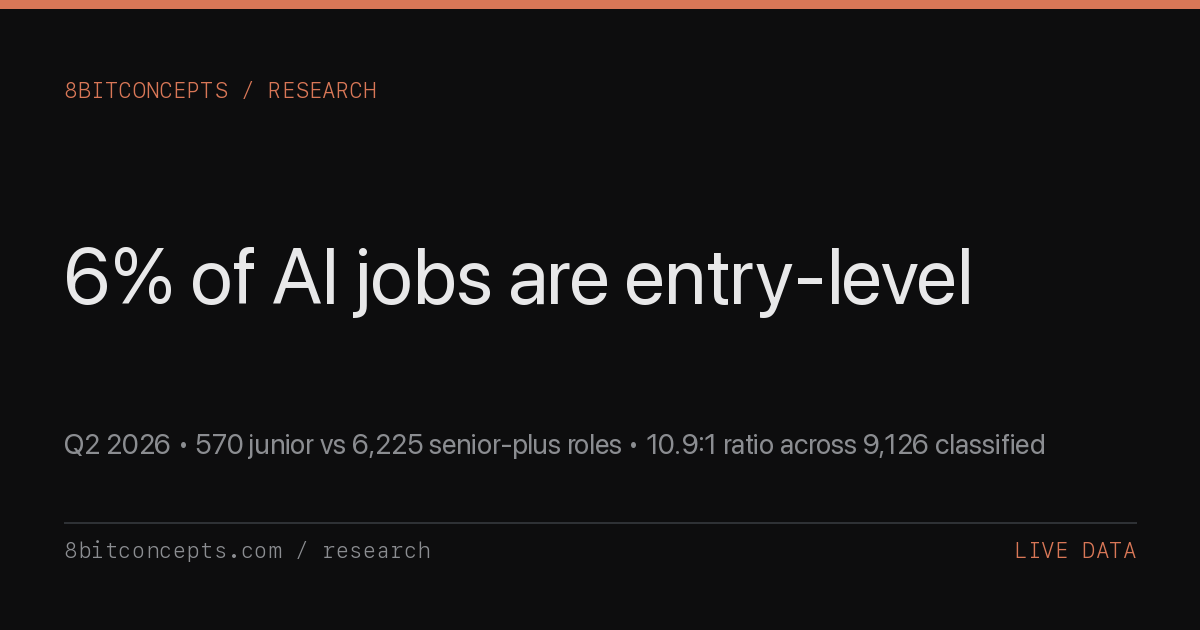
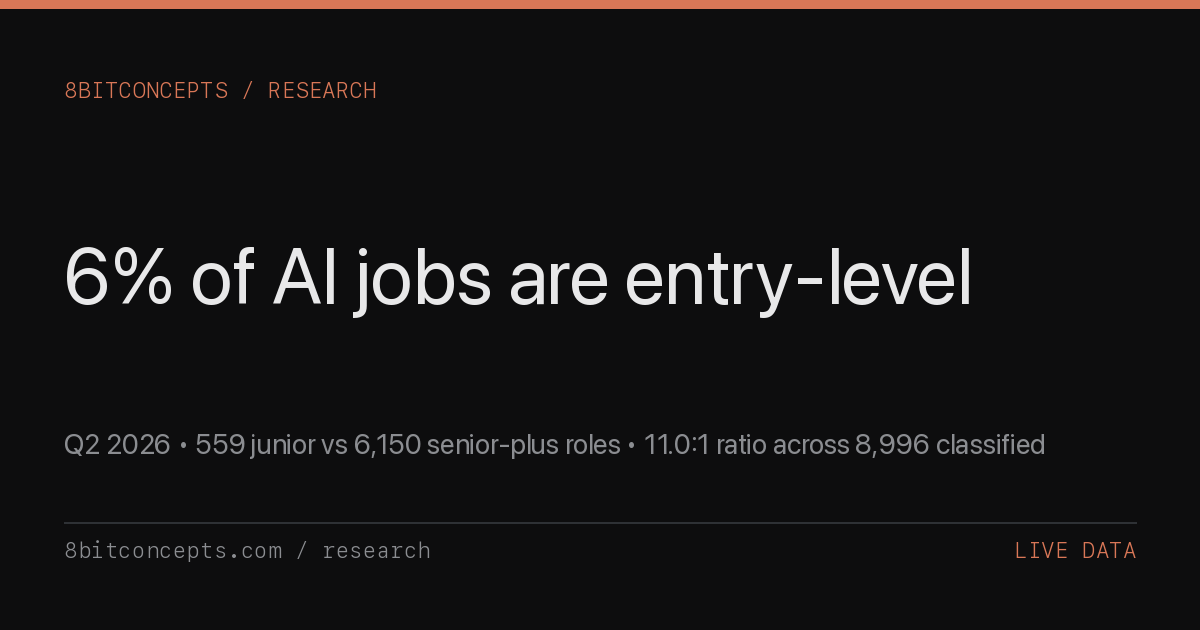
entry-level-gap: auto-regenerate 2026-08-10

Changed region(s): [[0.1542, 0.6937, 0.8633, 0.7238]]

diff --git a/research/q2-2026-entry-level-ai-gap.html b/research/q2-2026-entry-level-ai-gap.html
@@ -5,11 +5,11 @@
   <meta name="viewport" content="width=device-width, initial-scale=1.0" />
   <meta name="referrer" content="strict-origin-when-cross-origin" />
   <meta name="color-scheme" content="dark light" />
-  <meta name="last-updated" content="2026-08-03" />
+  <meta name="last-updated" content="2026-08-10" />
   <title>Q2 2026 The Junior AI Hiring Gap -- 8bitconcepts</title>
-  <meta name="description" content="Live analysis: only 6.2% of AI/ML engineering roles are open to juniors (570 of 9,126). 10.9:1 senior-plus-to-junior ratio &amp;mdash; the tightest in tech. Why the squeeze exists, which companies still hire juniors, and the actionable path in. Auto-regenerated weekly." />
+  <meta name="description" content="Live analysis: only 6.2% of AI/ML engineering roles are open to juniors (559 of 8,996). 11.0:1 senior-plus-to-junior ratio &amp;mdash; the tightest in tech. Why the squeeze exists, which companies still hire juniors, and the actionable path in. Auto-regenerated weekly." />
   <meta property="og:title" content="Q2 2026 The Junior AI Hiring Gap -- 8bitconcepts" />
-  <meta property="og:description" content="6.2% of AI/ML roles are open to juniors. 10.9:1 senior-plus ratio. 9,126 classified roles across 500 companies. Live data, 2026-08-03." />
+  <meta property="og:description" content="6.2% of AI/ML roles are open to juniors. 11.0:1 senior-plus ratio. 8,996 classified roles across 495 companies. Live data, 2026-08-10." />
   <meta property="og:type" content="article" />
   <meta property="og:url" content="https://8bitconcepts.com/research/q2-2026-entry-level-ai-gap.html" />
   <meta property="og:image" content="https://8bitconcepts.com/research/og/q2-2026-entry-level-ai-gap.png" />
@@ -17,7 +17,7 @@
   <meta property="og:image:height" content="630" />
   <meta name="twitter:card" content="summary_large_image" />
   <meta name="twitter:title" content="Q2 2026 The Junior AI Hiring Gap" />
-  <meta name="twitter:description" content="Only 6.2% of AI/ML jobs are entry-level. 10.9:1 senior-plus ratio. 2026-08-03." />
+  <meta name="twitter:description" content="Only 6.2% of AI/ML jobs are entry-level. 11.0:1 senior-plus ratio. 2026-08-10." />
   <meta name="twitter:image" content="https://8bitconcepts.com/research/og/q2-2026-entry-level-ai-gap.png" />
   <link rel="canonical" href="https://8bitconcepts.com/research/q2-2026-entry-level-ai-gap.html" />
   <link rel="preconnect" href="https://fonts.googleapis.com" />
@@ -478,10 +478,10 @@
     "@context": "https://schema.org",
     "@type": "Article",
     "headline": "Q2 2026 The Junior AI Hiring Gap",
-    "description": "Live analysis of the junior AI hiring gap from aidevboard.com: experience-level mix, junior-friendly companies, salary gap, why the squeeze exists, and the actionable path in for career-switchers. Across 9,126 classified postings.",
+    "description": "Live analysis of the junior AI hiring gap from aidevboard.com: experience-level mix, junior-friendly companies, salary gap, why the squeeze exists, and the actionable path in for career-switchers. Across 8,996 classified postings.",
     "url": "https://8bitconcepts.com/research/q2-2026-entry-level-ai-gap.html",
     "datePublished": "2026-04-17",
-    "dateModified": "2026-08-03",
+    "dateModified": "2026-08-10",
     "author": {"@type": "Organization", "name": "8bitconcepts", "url": "https://8bitconcepts.com"},
     "publisher": {"@type": "Organization", "name": "8bitconcepts", "url": "https://8bitconcepts.com"},
     "image": "https://8bitconcepts.com/research/og/q2-2026-entry-level-ai-gap.png",
@@ -521,10 +521,10 @@
 
     <h1>Q2 2026 The Junior AI Hiring Gap</h1>
 
-    <p class="subtitle">Live experience-level data across 9,126 classified AI/ML engineering roles. Only 6.2% are open to juniors. For every entry-level opening there are 10.9 senior-plus roles. Data pulled from <a href="https://aidevboard.com/api/v1/stats">aidevboard.com/api/v1/stats</a>.</p>
+    <p class="subtitle">Live experience-level data across 8,996 classified AI/ML engineering roles. Only 6.2% are open to juniors. For every entry-level opening there are 11.0 senior-plus roles. Data pulled from <a href="https://aidevboard.com/api/v1/stats">aidevboard.com/api/v1/stats</a>.</p>
 
     <div class="meta">
-      <span class="meta-date">2026-08-03</span>
+      <span class="meta-date">2026-08-10</span>
       <span class="meta-tag">Live Data</span>
       <span class="meta-read">~800 words</span>
     </div>
@@ -533,15 +533,15 @@
 
       <h2>Executive summary</h2>
 
-      <p>Only <strong>6.2%</strong> of 9,126 classified AI/ML engineering roles are open to juniors (570 of 9,126). For every entry-level opening there are <strong>10.9 senior-plus roles</strong> (6,225 senior + lead + principal). This is the tightest junior-to-senior ratio in any tech specialty tracked by the AI Dev Jobs index. Breaking in is statistically rarer than staying in.</p>
+      <p>Only <strong>6.2%</strong> of 8,996 classified AI/ML engineering roles are open to juniors (559 of 8,996). For every entry-level opening there are <strong>11.0 senior-plus roles</strong> (6,150 senior + lead + principal). This is the tightest junior-to-senior ratio in any tech specialty tracked by the AI Dev Jobs index. Breaking in is statistically rarer than staying in.</p>
 
       <div class="stat-row">
         <div class="stat-box">
           <div class="stat-num">6.2%</div>
-          <div class="stat-label">of AI/ML roles open to juniors (570 of 9,126)</div>
+          <div class="stat-label">of AI/ML roles open to juniors (559 of 8,996)</div>
         </div>
         <div class="stat-box">
-          <div class="stat-num">10.9&times;</div>
+          <div class="stat-num">11.0&times;</div>
           <div class="stat-label">senior-plus roles for every 1 junior role in the index</div>
         </div>
         <div class="stat-box">
@@ -552,7 +552,7 @@
 
       <h2>The squeeze: experience-level mix</h2>
 
-      <p>Across the 9,126 AI/ML engineering postings with an experience-level classification, the distribution is top-heavy. Junior is the smallest band; senior, lead, and principal together account for 68%.</p>
+      <p>Across the 8,996 AI/ML engineering postings with an experience-level classification, the distribution is top-heavy. Junior is the smallest band; senior, lead, and principal together account for 68%.</p>
 
       <table class="data-table">
         <thead>
@@ -563,39 +563,39 @@
           </tr>
         </thead>
         <tbody>
-          <tr><td>Junior / Entry-level</td><td class="num">570</td><td class="num">6.2%</td></tr>
-          <tr><td>Mid</td><td class="num">2,331</td><td class="num">25.5%</td></tr>
-          <tr><td>Senior</td><td class="num">3,065</td><td class="num">33.6%</td></tr>
-          <tr><td>Lead / Staff</td><td class="num">2,529</td><td class="num">27.7%</td></tr>
-          <tr><td>Principal</td><td class="num">631</td><td class="num">6.9%</td></tr>
+          <tr><td>Junior / Entry-level</td><td class="num">559</td><td class="num">6.2%</td></tr>
+          <tr><td>Mid</td><td class="num">2,287</td><td class="num">25.4%</td></tr>
+          <tr><td>Senior</td><td class="num">3,027</td><td class="num">33.6%</td></tr>
+          <tr><td>Lead / Staff</td><td class="num">2,498</td><td class="num">27.8%</td></tr>
+          <tr><td>Principal</td><td class="num">625</td><td class="num">6.9%</td></tr>
         </tbody>
       </table>
 
       <div class="bar-chart">
         <div class="bar-row">
           <div class="bar-label">Junior</div>
-          <div class="bar-wrap"><div class="bar" style="width:18.6%;"></div></div>
-          <div class="bar-value">570</div>
+          <div class="bar-wrap"><div class="bar" style="width:18.5%;"></div></div>
+          <div class="bar-value">559</div>
         </div>
         <div class="bar-row">
           <div class="bar-label">Mid</div>
-          <div class="bar-wrap"><div class="bar" style="width:76.1%;"></div></div>
-          <div class="bar-value">2,331</div>
+          <div class="bar-wrap"><div class="bar" style="width:75.6%;"></div></div>
+          <div class="bar-value">2,287</div>
         </div>
         <div class="bar-row">
           <div class="bar-label">Senior</div>
           <div class="bar-wrap"><div class="bar" style="width:100.0%;"></div></div>
-          <div class="bar-value">3,065</div>
+          <div class="bar-value">3,027</div>
         </div>
         <div class="bar-row">
           <div class="bar-label">Lead</div>
           <div class="bar-wrap"><div class="bar" style="width:82.5%;"></div></div>
-          <div class="bar-value">2,529</div>
+          <div class="bar-value">2,498</div>
         </div>
         <div class="bar-row">
           <div class="bar-label">Principal</div>
           <div class="bar-wrap"><div class="bar" style="width:20.6%;"></div></div>
-          <div class="bar-value">631</div>
+          <div class="bar-value">625</div>
         </div>
       </div>
 
@@ -605,15 +605,15 @@
 
       <h2>What &quot;junior AI&quot; actually pays</h2>
 
-      <p>The public stats endpoint does not expose salary by experience band directly &mdash; it publishes a single global average ($232,549) and a global median ($220,000) across the 3,504-posting salary-disclosed subset. But we can triangulate: of the disclosed postings, 364 advertise a midpoint under $150k (a reasonable proxy for the entry-level band), while 593 advertise $300k+. If junior supply is 6% of roles, the under-$150k band is <strong>roughly at odds with</strong> that share &mdash; meaning advertised junior AI pay typically lands in the $100k-$150k range, well above non-AI entry-level engineering but well below the $220,000 index median. <strong>Data gap flag:</strong> the next iteration of this report will break salary by experience band once the <code>/api/v1/stats</code> endpoint exposes it.</p>
+      <p>The public stats endpoint does not expose salary by experience band directly &mdash; it publishes a single global average ($232,683) and a global median ($220,000) across the 3,486-posting salary-disclosed subset. But we can triangulate: of the disclosed postings, 363 advertise a midpoint under $150k (a reasonable proxy for the entry-level band), while 593 advertise $300k+. If junior supply is 6% of roles, the under-$150k band is <strong>roughly at odds with</strong> that share &mdash; meaning advertised junior AI pay typically lands in the $100k-$150k range, well above non-AI entry-level engineering but well below the $220,000 index median. <strong>Data gap flag:</strong> the next iteration of this report will break salary by experience band once the <code>/api/v1/stats</code> endpoint exposes it.</p>
 
       <h2>Why the squeeze exists</h2>
 
-      <p>Three structural reasons explain the junior squeeze. <strong>Judgment under uncertainty.</strong> AI/ML engineering outputs (prompts, evals, RAG retrievers, agent pipelines) don't have deterministic unit tests &mdash; they require a senior's pattern-matching to spot when a system is quietly wrong. Companies willing to pay $232,549 average don't want to train that judgment from scratch. <strong>Compute-cost economics.</strong> A senior engineer ships iterations against GPU-hours that cost $5-$50 per experiment. The efficiency delta between a senior and a junior running GPU jobs compounds faster than it does in CRUD web development, so staffing leans toward senior. <strong>The ML-plus-LLM double requirement.</strong> Companies hiring for &quot;AI&quot; in 2026 typically want traditional ML fluency (PyTorch, distributed training, MLOps &mdash; the 2,104 postings combining those skills) <em>plus</em> recent LLM / agent experience. Juniors rarely have both simultaneously.</p>
+      <p>Three structural reasons explain the junior squeeze. <strong>Judgment under uncertainty.</strong> AI/ML engineering outputs (prompts, evals, RAG retrievers, agent pipelines) don't have deterministic unit tests &mdash; they require a senior's pattern-matching to spot when a system is quietly wrong. Companies willing to pay $232,683 average don't want to train that judgment from scratch. <strong>Compute-cost economics.</strong> A senior engineer ships iterations against GPU-hours that cost $5-$50 per experiment. The efficiency delta between a senior and a junior running GPU jobs compounds faster than it does in CRUD web development, so staffing leans toward senior. <strong>The ML-plus-LLM double requirement.</strong> Companies hiring for &quot;AI&quot; in 2026 typically want traditional ML fluency (PyTorch, distributed training, MLOps &mdash; the 2,042 postings combining those skills) <em>plus</em> recent LLM / agent experience. Juniors rarely have both simultaneously.</p>
 
       <h2>Bootcamps, CS grads, and career-switchers</h2>
 
-      <p><strong>Is the bootcamp path viable?</strong> The data says: narrow pipe, not closed pipe. The junior AI/ML market is roughly 570 roles &mdash; a fraction of the 9,126-role total, but still 570 concrete opportunities across 500 companies in the index. The realistic read for a career-switcher: (1) the generic &quot;AI engineer&quot; bootcamp targeting LLMs alone will not beat an ML-native CS grad on the same req, (2) the working angle is a <em>domain wedge</em> &mdash; AI-for-robotics, AI-for-healthcare, AI-for-security, AI-for-legal &mdash; where the ML stack is a smaller share of the role than the domain knowledge, (3) research labs (Anthropic, OpenAI, DeepMind) post &quot;Resident&quot; and &quot;Fellow&quot; tracks that function as senior-paid junior seats. These look like the highest-leverage entry points in the current market. The 7% share is a filter, not a ceiling.</p>
+      <p><strong>Is the bootcamp path viable?</strong> The data says: narrow pipe, not closed pipe. The junior AI/ML market is roughly 559 roles &mdash; a fraction of the 8,996-role total, but still 559 concrete opportunities across 495 companies in the index. The realistic read for a career-switcher: (1) the generic &quot;AI engineer&quot; bootcamp targeting LLMs alone will not beat an ML-native CS grad on the same req, (2) the working angle is a <em>domain wedge</em> &mdash; AI-for-robotics, AI-for-healthcare, AI-for-security, AI-for-legal &mdash; where the ML stack is a smaller share of the role than the domain knowledge, (3) research labs (Anthropic, OpenAI, DeepMind) post &quot;Resident&quot; and &quot;Fellow&quot; tracks that function as senior-paid junior seats. These look like the highest-leverage entry points in the current market. The 7% share is a filter, not a ceiling.</p>
 
       <h2>Companies that DO hire juniors</h2>
 
@@ -630,7 +630,7 @@
         </thead>
         <tbody>
           <tr><td>May Mobility</td><td class="num">19</td><td class="num">6</td><td class="num">32%</td></tr>
-          <tr><td>Pinterest</td><td class="num">24</td><td class="num">5</td><td class="num">21%</td></tr>
+          <tr><td>Pinterest</td><td class="num">25</td><td class="num">5</td><td class="num">20%</td></tr>
           <tr><td>Lila Sciences</td><td class="num">25</td><td class="num">4</td><td class="num">16%</td></tr>
           <tr><td>Torc Robotics</td><td class="num">12</td><td class="num">3</td><td class="num">25%</td></tr>
         </tbody>
@@ -638,11 +638,11 @@
 
       <h2>Signal for job seekers</h2>
 
-      <p><strong>If you're trying to break in.</strong> Don't optimize for the 500-company index overall &mdash; the signal is too diluted. Target the 4 of companies actually posting junior seats (see table above). Apply to research-lab residency programs that pay senior-band salaries to juniors. Specialize in a non-trivial domain (robotics, biotech, finance, defense) before the AI layer &mdash; <em>AI-for-X</em> always hires junior talent faster than pure-ML orgs do, because the domain expertise is the harder-to-hire input.</p>
+      <p><strong>If you're trying to break in.</strong> Don't optimize for the 495-company index overall &mdash; the signal is too diluted. Target the 4 of companies actually posting junior seats (see table above). Apply to research-lab residency programs that pay senior-band salaries to juniors. Specialize in a non-trivial domain (robotics, biotech, finance, defense) before the AI layer &mdash; <em>AI-for-X</em> always hires junior talent faster than pure-ML orgs do, because the domain expertise is the harder-to-hire input.</p>
 
       <h2>Methodology</h2>
 
-      <p>Generated from the live <a href="https://aidevboard.com/api/v1/stats">aidevboard.com/api/v1/stats</a> endpoint (public, unauthenticated) plus a paginated walk of <a href="https://aidevboard.com/api/v1/jobs">/api/v1/jobs</a> for per-company experience-level aggregation. Index scrapes 560+ ATS sources on a daily cron and deduplicates by (company, title, location). The <code>experience_level</code> field is classified by a rules-based parser from title + seniority signals &mdash; see <a href="https://github.com/unitedideas/aidevboard-mcp">open-source parser</a>. Per-company junior counts in this paper use a title-regex fallback (<code>junior</code>, <code>jr</code>, <code>entry-level</code>, <code>new grad</code>, <code>associate</code>, <code>intern</code>, <code>early career</code>) over the paginated job sample &mdash; they're a proxy, not a source of truth, and skew conservative (any title with &quot;senior&quot; anywhere is dropped from the junior bucket). Of 9,126 roles in the index, 9,126 have a non-empty experience-level classification. Salary averages are from the 3,504-posting salary-disclosed subset. This page auto-regenerates weekly (Mon 9:15 am PT).</p>
+      <p>Generated from the live <a href="https://aidevboard.com/api/v1/stats">aidevboard.com/api/v1/stats</a> endpoint (public, unauthenticated) plus a paginated walk of <a href="https://aidevboard.com/api/v1/jobs">/api/v1/jobs</a> for per-company experience-level aggregation. Index scrapes 560+ ATS sources on a daily cron and deduplicates by (company, title, location). The <code>experience_level</code> field is classified by a rules-based parser from title + seniority signals &mdash; see <a href="https://github.com/unitedideas/aidevboard-mcp">open-source parser</a>. Per-company junior counts in this paper use a title-regex fallback (<code>junior</code>, <code>jr</code>, <code>entry-level</code>, <code>new grad</code>, <code>associate</code>, <code>intern</code>, <code>early career</code>) over the paginated job sample &mdash; they're a proxy, not a source of truth, and skew conservative (any title with &quot;senior&quot; anywhere is dropped from the junior bucket). Of 8,996 roles in the index, 8,996 have a non-empty experience-level classification. Salary averages are from the 3,486-posting salary-disclosed subset. This page auto-regenerates weekly (Mon 9:15 am PT).</p>
 
       <p><strong>Download raw data:</strong> The experience-level + per-company junior dataset is mirrored as a public gist &mdash; <a href="https://gist.githubusercontent.com/unitedideas/d400d2d9a85692b758b96ab5fe741a22/raw/ai-entry-level.csv">CSV</a> &middot; <a href="https://gist.githubusercontent.com/unitedideas/d400d2d9a85692b758b96ab5fe741a22/raw/ai-entry-level.md">Markdown</a> &middot; <a href="https://gist.github.com/unitedideas/d400d2d9a85692b758b96ab5fe741a22">view on GitHub</a>. Auto-updated every weekly regeneration; canonical raw URLs are stable across revisions.</p>
 
@@ -692,7 +692,7 @@
     <div class="footnotes">
       <h4>Sources</h4>
       <ol>
-        <li>AI Dev Jobs &mdash; <a href="https://aidevboard.com/api/v1/stats">/api/v1/stats</a>, pulled 2026-08-03T16:15:03Z. Public unauthenticated endpoint.</li>
+        <li>AI Dev Jobs &mdash; <a href="https://aidevboard.com/api/v1/stats">/api/v1/stats</a>, pulled 2026-08-10T16:15:01Z. Public unauthenticated endpoint.</li>
         <li>AI Dev Jobs &mdash; <a href="https://aidevboard.com/api/v1/jobs">/api/v1/jobs</a>, paginated walk for per-company junior-title aggregation.</li>
         <li>Experience-level classification is derived from job title + seniority signals by a rules-based parser. Per-company junior counts use a title-regex fallback (<code>junior</code>, <code>jr</code>, <code>entry-level</code>, <code>new grad</code>, <code>associate</code>, <code>intern</code>, <code>early career</code>).</li>
         <li>Salary figures are employer-advertised midpoints from public ATS feeds. The stats endpoint does not currently break salary by experience band; we triangulate from distribution buckets.</li>
